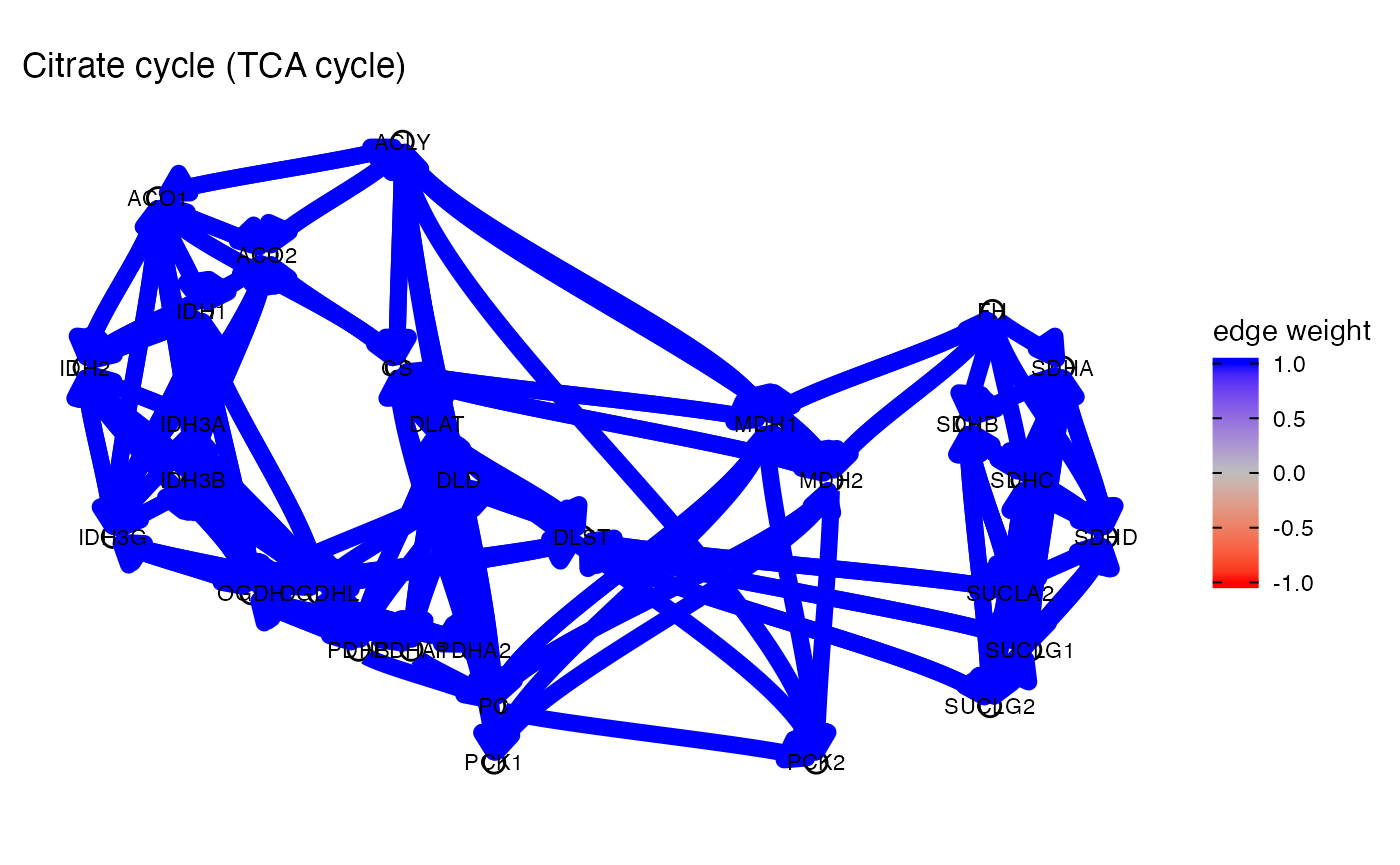
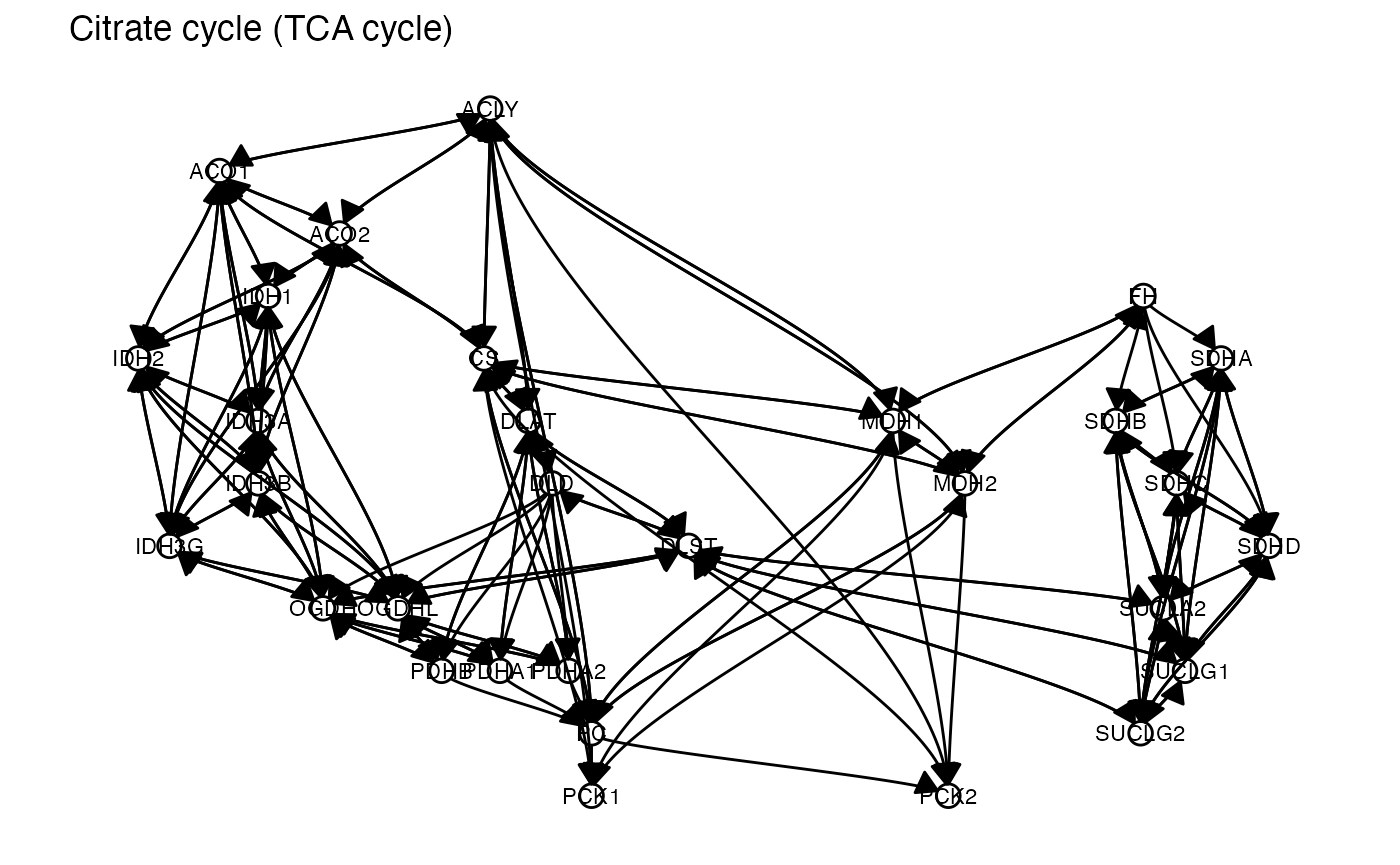
Built site for dce: 0.99.3@b289163

diff --git a/articles/pathway_databases.html b/articles/pathway_databases.html
@@ -88,7 +88,7 @@
       <h1 data-toc-skip>Overview of pathway network databases</h1>
                         <h4 class="author">Kim Philipp Jablonski, Martin Pirkl</h4>
             
-            <h4 class="date">2021-04-13</h4>
+            <h4 class="date">2021-04-16</h4>
       
       <small class="dont-index">Source: <a href="https://github.com/cbg-ethz/dce/blob/master/vignettes/pathway_databases.Rmd"><code>vignettes/pathway_databases.Rmd</code></a></small>
       <div class="hidden name"><code>pathway_databases.Rmd</code></div>
@@ -105,8 +105,8 @@
 <a href="#load-required-packages" class="anchor"></a>Load required packages</h2>
 <p>Load the package with the library function.</p>
 <div class="sourceCode" id="cb1"><pre class="downlit sourceCode r">
-<code class="sourceCode R"><span class="kw"><a href="https://rdrr.io/r/base/library.html">library</a></span><span class="op">(</span><span class="va"><a href="http://tidyverse.tidyverse.org">tidyverse</a></span><span class="op">)</span></code></pre></div>
-<pre><code>## ── Attaching packages ─────────────────────────────────────── tidyverse 1.3.0 ──</code></pre>
+<code class="sourceCode R"><span class="kw"><a href="https://rdrr.io/r/base/library.html">library</a></span><span class="op">(</span><span class="va"><a href="https://tidyverse.tidyverse.org">tidyverse</a></span><span class="op">)</span></code></pre></div>
+<pre><code>## ── Attaching packages ─────────────────────────────────────── tidyverse 1.3.1 ──</code></pre>
 <pre><code>## ✔ ggplot2 3.3.3     ✔ purrr   0.3.4
 ## ✔ tibble  3.1.0     ✔ dplyr   1.0.5
 ## ✔ tidyr   1.1.3     ✔ stringr 1.4.0
@@ -285,7 +285,7 @@
 ## 'select()' returned 1:1 mapping between keys and columns</code></pre>
 <div class="sourceCode" id="cb14"><pre class="downlit sourceCode r">
 <code class="sourceCode R"><span class="fu"><a href="https://rdrr.io/r/base/lapply.html">lapply</a></span><span class="op">(</span><span class="va">pathways</span>, <span class="kw">function</span><span class="op">(</span><span class="va">x</span><span class="op">)</span> <span class="op">{</span>
-  <span class="fu"><a href="../reference/plot_network.html">plot_network</a></span><span class="op">(</span><span class="fu">as</span><span class="op">(</span><span class="va">x</span><span class="op">$</span><span class="va">graph</span>, <span class="st">"matrix"</span><span class="op">)</span><span class="op">)</span> <span class="op">+</span>
+  <span class="fu"><a href="../reference/plot_network.html">plot_network</a></span><span class="op">(</span><span class="fu">as</span><span class="op">(</span><span class="va">x</span><span class="op">$</span><span class="va">graph</span>, <span class="st">"matrix"</span><span class="op">)</span>, visualize_edge_weights <span class="op">=</span> <span class="cn">FALSE</span><span class="op">)</span> <span class="op">+</span>
     <span class="fu"><a href="https://ggplot2.tidyverse.org/reference/labs.html">ggtitle</a></span><span class="op">(</span><span class="va">x</span><span class="op">$</span><span class="va">pathway_name</span><span class="op">)</span>
 <span class="op">}</span><span class="op">)</span></code></pre></div>
 <pre><code>## [[1]]</code></pre>
@@ -320,7 +320,7 @@
 ##  [7] dce_0.99.3           forcats_0.5.1        stringr_1.4.0       
 ## [10] dplyr_1.0.5          purrr_0.3.4          readr_1.4.0         
 ## [13] tidyr_1.1.3          tibble_3.1.0         ggplot2_3.3.3       
-## [16] tidyverse_1.3.0      BiocStyle_2.18.1    
+## [16] tidyverse_1.3.1      BiocStyle_2.18.1    
 ## 
 ## loaded via a namespace (and not attached):
 ##   [1] utf8_1.2.1               tidyselect_1.1.0         RSQLite_2.2.6           
@@ -328,14 +328,14 @@
 ##   [7] codetools_0.2-18         mutoss_0.1-12            ragg_1.1.2              
 ##  [10] statmod_1.4.35           withr_2.4.1              fastICA_1.2-2           
 ##  [13] colorspace_2.0-0         highr_0.8                logger_0.2.0            
-##  [16] knitr_1.31               rstudioapi_0.13          robustbase_0.93-7       
+##  [16] knitr_1.32               rstudioapi_0.13          robustbase_0.93-7       
 ##  [19] labeling_0.4.2           Rdpack_2.1.1             mnormt_2.0.2            
 ##  [22] polyclip_1.10-0          bit64_4.0.5              farver_2.1.0            
 ##  [25] rprojroot_2.0.2          vctrs_0.3.7              generics_0.1.0          
 ##  [28] TH.data_1.0-10           xfun_0.22                fastcluster_1.1.25      
 ##  [31] diptest_0.75-7           R6_2.5.0                 clue_0.3-58             
 ##  [34] graphlayouts_0.7.1       RcppEigen_0.3.3.9.1      locfit_1.5-9.4          
-##  [37] flexmix_2.3-17           cachem_1.0.4             RcppArmadillo_0.10.2.2.0
+##  [37] flexmix_2.3-17           cachem_1.0.4             RcppArmadillo_0.10.4.0.0
 ##  [40] assertthat_0.2.1         scales_1.1.1             multcomp_1.4-16         
 ##  [43] ggraph_2.0.5             nnet_7.3-15              gtable_0.3.0            
 ##  [46] tidygraph_1.2.0          sandwich_3.0-0           rlang_0.4.10            
@@ -346,8 +346,8 @@
 ##  [61] bookdown_0.21            ggm_2.5                  ellipsis_0.3.1          
 ##  [64] jquerylib_0.1.3          proxy_0.4-25             ggdendro_0.1.22         
 ##  [67] plyr_1.8.6               TFisher_0.2.0            Rcpp_1.0.6              
-##  [70] pcalg_2.7-1              ps_1.6.0                 viridis_0.5.1           
-##  [73] sfsmisc_1.1-11           zoo_1.8-9                haven_2.3.1             
+##  [70] pcalg_2.7-1              ps_1.6.0                 viridis_0.6.0           
+##  [73] sfsmisc_1.1-11           zoo_1.8-9                haven_2.4.0             
 ##  [76] ggrepel_0.9.1            cluster_2.1.1            fs_1.5.0                
 ##  [79] apcluster_1.4.8          magrittr_2.0.1           data.table_1.14.0       
 ##  [82] gmodels_2.18.1           reprex_2.0.0             tmvnsim_1.0-2           
@@ -371,8 +371,8 @@
 ## [136] curl_4.3                 kernlab_0.9-29           gtools_3.8.2            
 ## [139] modeltools_0.2-23        graphite_1.36.0          lifecycle_1.0.0         
 ## [142] nlme_3.1-152             jsonlite_1.7.2           desc_1.3.0              
-## [145] viridisLite_0.3.0        limma_3.46.0             fansi_0.4.2             
-## [148] pillar_1.5.1             lattice_0.20-41          fastmap_1.1.0           
+## [145] viridisLite_0.4.0        limma_3.46.0             fansi_0.4.2             
+## [148] pillar_1.6.0             lattice_0.20-41          fastmap_1.1.0           
 ## [151] httr_1.4.2               plotrix_3.8-1            DEoptimR_1.0-8          
 ## [154] survival_3.2-10          glue_1.4.2               CombinePValue_1.0       
 ## [157] prabclus_2.3-2           bit_4.0.4                Rgraphviz_2.34.0        

diff --git a/articles/dce.html b/articles/dce.html
@@ -88,7 +88,7 @@
       <h1 data-toc-skip>Get started</h1>
                         <h4 class="author">Kim Philipp Jablonski, Martin Pirkl</h4>
             
-            <h4 class="date">2021-04-13</h4>
+            <h4 class="date">2021-04-16</h4>
       
       <small class="dont-index">Source: <a href="https://github.com/cbg-ethz/dce/blob/master/vignettes/dce.Rmd"><code>vignettes/dce.Rmd</code></a></small>
       <div class="hidden name"><code>dce.Rmd</code></div>
@@ -127,7 +127,7 @@
 <span class="kw"><a href="https://rdrr.io/r/base/library.html">library</a></span><span class="op">(</span><span class="va">TCGAutils</span><span class="op">)</span>
 <span class="kw"><a href="https://rdrr.io/r/base/library.html">library</a></span><span class="op">(</span><span class="va"><a href="https://bioconductor.org/packages/SummarizedExperiment">SummarizedExperiment</a></span><span class="op">)</span>
 
-<span class="kw"><a href="https://rdrr.io/r/base/library.html">library</a></span><span class="op">(</span><span class="va"><a href="http://tidyverse.tidyverse.org">tidyverse</a></span><span class="op">)</span>
+<span class="kw"><a href="https://rdrr.io/r/base/library.html">library</a></span><span class="op">(</span><span class="va"><a href="https://tidyverse.tidyverse.org">tidyverse</a></span><span class="op">)</span>
 <span class="kw"><a href="https://rdrr.io/r/base/library.html">library</a></span><span class="op">(</span><span class="va"><a href="https://wilkelab.org/cowplot/">cowplot</a></span><span class="op">)</span>
 <span class="kw"><a href="https://rdrr.io/r/base/library.html">library</a></span><span class="op">(</span><span class="va">graph</span><span class="op">)</span>
 <span class="kw"><a href="https://rdrr.io/r/base/library.html">library</a></span><span class="op">(</span><span class="va"><a href="https://github.com/cbg-ethz/dce">dce</a></span><span class="op">)</span>
@@ -207,7 +207,7 @@
   assays <span class="op">=</span> <span class="fu"><a href="https://rdrr.io/r/base/c.html">c</a></span><span class="op">(</span><span class="st">"RNASeq2*"</span><span class="op">)</span>,
   dry.run <span class="op">=</span> <span class="cn">FALSE</span>
 <span class="op">)</span></code></pre></div>
-<pre><code>## using temporary cache /var/folders/24/8k48jl6d249_n_qfxwsl6xvm0000gn/T//RtmpsHYiqp/BiocFileCache</code></pre>
+<pre><code>## using temporary cache /var/folders/24/8k48jl6d249_n_qfxwsl6xvm0000gn/T//Rtmpa7ha1H/BiocFileCache</code></pre>
 <pre><code>## snapshotDate(): 2020-10-27</code></pre>
 <pre><code>## Working on: BRCA_RNASeq2GeneNorm-20160128</code></pre>
 <pre><code>## see ?curatedTCGAData and browseVignettes('curatedTCGAData') for documentation</code></pre>
@@ -331,7 +331,7 @@
 ##  [7] stringr_1.4.0               dplyr_1.0.5                
 ##  [9] purrr_0.3.4                 readr_1.4.0                
 ## [11] tidyr_1.1.3                 tibble_3.1.0               
-## [13] tidyverse_1.3.0             TCGAutils_1.10.0           
+## [13] tidyverse_1.3.1             TCGAutils_1.10.0           
 ## [15] curatedTCGAData_1.12.0      MultiAssayExperiment_1.16.0
 ## [17] SummarizedExperiment_1.20.0 Biobase_2.50.0             
 ## [19] GenomicRanges_1.42.0        GenomeInfoDb_1.26.7        
@@ -343,7 +343,7 @@
 ## loaded via a namespace (and not attached):
 ##   [1] rappdirs_0.3.3                rtracklayer_1.50.0           
 ##   [3] prabclus_2.3-2                ragg_1.1.2                   
-##   [5] bit64_4.0.5                   knitr_1.31                   
+##   [5] bit64_4.0.5                   knitr_1.32                   
 ##   [7] multcomp_1.4-16               DelayedArray_0.16.3          
 ##   [9] data.table_1.14.0             RCurl_1.98-1.3               
 ##  [11] generics_0.1.0                metap_1.4                    
@@ -352,7 +352,7 @@
 ##  [17] CombinePValue_1.0             bit_4.0.4                    
 ##  [19] mutoss_0.1-12                 xml2_1.3.2                   
 ##  [21] lubridate_1.7.10              httpuv_1.5.5                 
-##  [23] assertthat_0.2.1              viridis_0.5.1                
+##  [23] assertthat_0.2.1              viridis_0.6.0                
 ##  [25] amap_0.8-18                   xfun_0.22                    
 ##  [27] hms_1.0.0                     jquerylib_0.1.3              
 ##  [29] evaluate_0.14                 promises_1.2.0.1             
@@ -361,7 +361,7 @@
 ##  [35] readxl_1.3.1                  Rgraphviz_2.34.0             
 ##  [37] igraph_1.2.6                  DBI_1.1.1                    
 ##  [39] tmvnsim_1.0-2                 apcluster_1.4.8              
-##  [41] RcppArmadillo_0.10.2.2.0      ellipsis_0.3.1               
+##  [41] RcppArmadillo_0.10.4.0.0      ellipsis_0.3.1               
 ##  [43] backports_1.2.1               bookdown_0.21                
 ##  [45] permute_0.9-5                 harmonicmeanp_3.0            
 ##  [47] biomaRt_2.46.3                vctrs_0.3.7                  
@@ -386,7 +386,7 @@
 ##  [85] AnnotationHub_2.22.0          cellranger_1.1.0             
 ##  [87] rprojroot_2.0.2               polyclip_1.10-0              
 ##  [89] Matrix_1.3-2                  zoo_1.8-9                    
-##  [91] reprex_2.0.0                  viridisLite_0.3.0            
+##  [91] reprex_2.0.0                  viridisLite_0.4.0            
 ##  [93] bitops_1.0-6                  Biostrings_2.58.0            
 ##  [95] blob_1.2.1                    scales_1.1.1                 
 ##  [97] plyr_1.8.6                    memoise_2.0.0                
@@ -423,7 +423,7 @@
 ## [159] jsonlite_1.7.2                tidygraph_1.2.0              
 ## [161] corpcor_1.6.9                 modeltools_0.2-23            
 ## [163] R6_2.5.0                      gmodels_2.18.1               
-## [165] TFisher_0.2.0                 pillar_1.5.1                 
+## [165] TFisher_0.2.0                 pillar_1.6.0                 
 ## [167] htmltools_0.5.1.1             mime_0.10                    
 ## [169] glue_1.4.2                    fastmap_1.1.0                
 ## [171] BiocParallel_1.24.1           class_7.3-18                 
@@ -438,7 +438,7 @@
 ## [189] desc_1.3.0                    munsell_0.5.0                
 ## [191] e1071_1.7-6                   fastcluster_1.1.25           
 ## [193] GenomeInfoDbData_1.2.4        reshape2_1.4.4               
-## [195] haven_2.3.1                   gtable_0.3.0                 
+## [195] haven_2.4.0                   gtable_0.3.0                 
 ## [197] rbibutils_2.1</code></pre>
 </div>
 <div id="references" class="section level1 unnumbered">

diff --git a/reference/plot_network.html b/reference/plot_network.html
@@ -141,8 +141,9 @@
   edgescale_limits <span class='op'>=</span> <span class='cn'>NULL</span>,
   nodesize <span class='op'>=</span> <span class='fl'>17</span>,
   labelsize <span class='op'>=</span> <span class='fl'>3</span>,
-  node_color <span class='op'>=</span> <span class='st'>"black"</span>,
+  node_color <span class='op'>=</span> <span class='st'>"white"</span>,
   show_edge_labels <span class='op'>=</span> <span class='cn'>FALSE</span>,
+  visualize_edge_weights <span class='op'>=</span> <span class='cn'>TRUE</span>,
   use_symlog <span class='op'>=</span> <span class='cn'>FALSE</span>,
   highlighted_nodes <span class='op'>=</span> <span class='fu'><a href='https://rdrr.io/r/base/c.html'>c</a></span><span class='op'>(</span><span class='op'>)</span>,
   legend_title <span class='op'>=</span> <span class='st'>"edge weight"</span>,
@@ -181,6 +182,11 @@
     <tr>
       <th>show_edge_labels</th>
       <td><p>Whether to show edge labels (DCEs)</p></td>
+    </tr>
+    <tr>
+      <th>visualize_edge_weights</th>
+      <td><p>Whether to change edge color/width/alpha
+relative to edge weight</p></td>
     </tr>
     <tr>
       <th>use_symlog</th>
